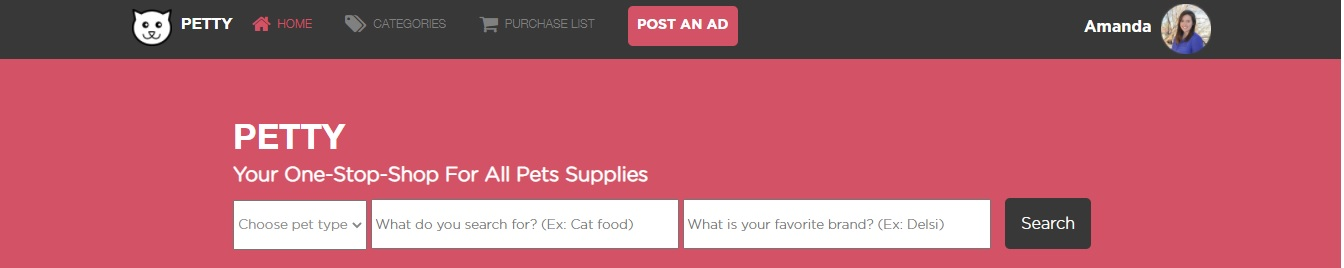
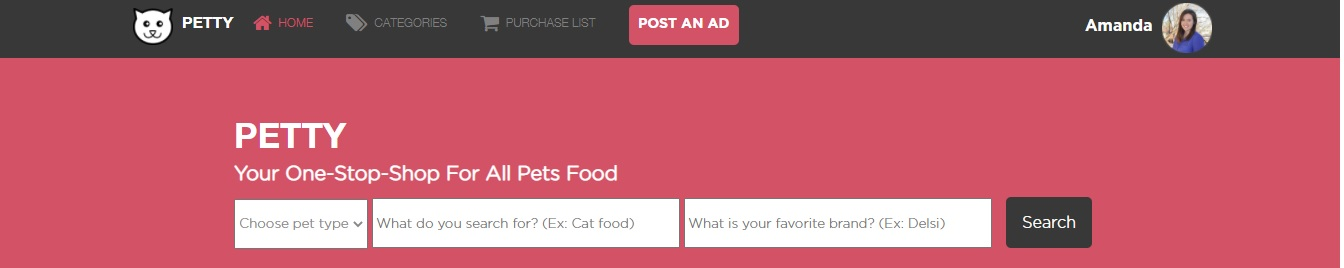
Update website main title in Search Results Page & in Read-Me file screenshot

diff --git a/search-results.html b/search-results.html
@@ -34,7 +34,7 @@
             <section class="search-box-part">
                 <header class="header">
                     <h1 class="header-title">PETTY</h1>
-                    <h2 class="header-p">Your One-Stop-Shop For All Pets Supplies</h2>
+                    <h2 class="header-p">Your One-Stop-Shop For All Pets Food</h2>
                 </header>
 
                 <div class="search-box">
